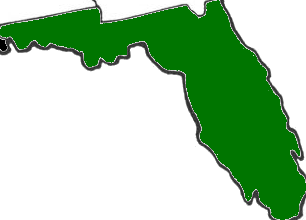
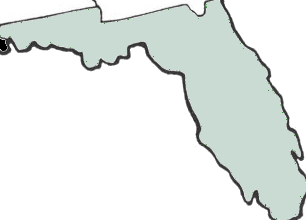
Added Georgia, lots of methods, and made coloring possible

diff --git a/mrisk/MRisk/src/main/java/GUI/StartScreen.java b/mrisk/MRisk/src/main/java/GUI/StartScreen.java
@@ -6,6 +6,7 @@
 package GUI;
 
 import Game.Game;
+import Game.Player;
 //import java.awt.Image;
 import javafx.scene.image.Image;
 import javafx.application.Application;
@@ -15,6 +16,8 @@ import javafx.event.EventHandler;
 import javafx.geometry.Pos;
 import javafx.scene.Scene;
 import javafx.scene.control.Button;
+import javafx.scene.effect.Light;
+import javafx.scene.effect.Lighting;
 import javafx.scene.image.ImageView;
 import javafx.scene.input.MouseEvent;
 import javafx.scene.layout.Background;
@@ -25,6 +28,7 @@ import javafx.scene.layout.BackgroundSize;
 import javafx.scene.layout.GridPane;
 import javafx.scene.layout.Pane;
 import javafx.scene.layout.StackPane;
+import javafx.scene.paint.Color;
 import javafx.stage.Stage;
 
 /**
@@ -43,7 +47,7 @@ public class StartScreen extends Application {
     BackgroundImage bg;
 
     public StartScreen() {
-
+        game = new Game();
     }
 
     public void begin() {
@@ -174,14 +178,38 @@ public class StartScreen extends Application {
         });
 
         pane.getChildren().add(menuBtn);
-        //ImageView img = new ImageView();
-        ImageView florida = new ImageView("/florida.png");
-        //Image florida = new Image("/florida.png", 32, 32, false, false);
+        Image fl = new Image("/florida.png");
+        //ImageView florida = new ImageView("/florida.png");
+        ImageView florida = new ImageView(fl);
         florida.setPickOnBounds(false);
         florida.setOnMouseClicked((MouseEvent e) -> {
+            Lighting lighting = new Lighting();
+            lighting.setDiffuseConstant(1.0);
+            lighting.setSpecularConstant(0.0);
+            lighting.setSpecularExponent(0.0);
+            lighting.setSurfaceScale(0.0);
+            lighting.setLight(new Light.Distant(45, 45, game.getCurrentPlayer().getColor()));
             System.out.println("clicked Florida!");
+            florida.setEffect(lighting);
         });
 
+        Image ge = new Image("/georgia.png");
+        ImageView georgia = new ImageView(ge);
+        georgia.setPickOnBounds(false);
+        georgia.setOnMouseClicked((MouseEvent e) -> {
+            Lighting lighting = new Lighting();
+            lighting.setDiffuseConstant(1.0);
+            lighting.setSpecularConstant(0.0);
+            lighting.setSpecularExponent(0.0);
+            lighting.setSurfaceScale(0.0);
+            lighting.setLight(new Light.Distant(45, 45, Color.PURPLE));
+            System.out.println("clicked Georgia!");
+            georgia.setEffect(lighting);
+        });
+
+        pane.getChildren().add(georgia);
+        georgia.setLayoutX(460d);
+        georgia.setLayoutY(289d);
         pane.getChildren().add(florida);
         florida.setLayoutX(408d);
         florida.setLayoutY(453d);

diff --git a/mrisk/MRisk/src/main/java/Game/Game.java b/mrisk/MRisk/src/main/java/Game/Game.java
@@ -6,7 +6,10 @@
 package Game;
 
 import GUI.StartScreen;
+import java.util.ArrayList;
 import java.util.HashMap;
+import java.util.List;
+import javafx.scene.paint.Color;
 
 /**
  *
@@ -19,7 +22,10 @@ public class Game {
     int players;
     Player p1;
     Player p2;
+    Player currentPlayer;
     int round;
+    private List<Country> countries;
+    private Country selectedCountry;
     
     public static void main(String[] args) {
         
@@ -28,11 +34,13 @@ public class Game {
     public Game() {
         //this.players = new HashMap<>();
         players = 2;
-        
-        p1 = new Player();
-        p2 = new Player();
+        p1 = new Player(Color.GREEN);
+        p2 = new Player(Color.PURPLE);
+        currentPlayer = p1;
         
         round = 1;
+        
+        initializeCountries();
     }
     
     public void addPlayer(String name) {
@@ -52,5 +60,34 @@ public class Game {
         if (round > 2) {
             round = 1;
         }
+    }
+    
+    public void advanceRound() {
+        
+    }
+    
+    public void initializeCountries() {
+        countries = new ArrayList<>();
+        countries.add(new Country("Florida", "/florida.png", 4, countries.size()));
+        countries.add(new Country("Georgia", "/georgia.png", 2, countries.size()));
+    }
+    
+    public List<Country> getCountries() {
+        return this.countries;
+    }
+    
+    public Country getCountry(int index) {
+        return this.countries.get(index);
+    }
+    
+    public void selectCountry(int index) {
+        Country oldCountry = this.selectedCountry;
+        oldCountry.deselect();
+        getCountry(index).select();
+        // UPDATE COLORS
+    }
+    
+    public Player getCurrentPlayer() {
+        return this.currentPlayer;
     }
 }

diff --git a/mrisk/MRisk/src/main/java/Game/Country.java b/mrisk/MRisk/src/main/java/Game/Country.java
@@ -19,10 +19,14 @@ public class Country {
     private Integer troops;
     public ImageView img;
     private String ImageURI;
+    private int index;
+    private boolean selected;
     
-    public Country(String name, String ImageURI, int value) {
+    public Country(String name, String ImageURI, int value, int index) {
         this.name = name;
         this.value = value;
+        this.index = index;
+        this.selected = false;
         //img = new ImageView(ImageURI);
     }
     
@@ -52,6 +56,20 @@ public class Country {
     
     public int getTroops() {
         return this.troops;
+    }
+    
+    public int getIndex() {
+        return this.index;
+    }
+    
+    public void select() {
+        this.selected = true;
+        //OTHER THINGS
+    }
+    
+    public void deselect() {
+        this.selected = false;
+        // Other things
     }
     
     

diff --git a/mrisk/MRisk/src/main/java/Game/Player.java b/mrisk/MRisk/src/main/java/Game/Player.java
@@ -22,6 +22,7 @@ public class Player {
         this.num = num;
         this.name = name;
         this.troopsToSet = 10;
+        this.color = Color.BLUE;
     }
     
     public Player(int num) {
@@ -33,6 +34,12 @@ public class Player {
     public Player() {
         this.name = "Player";
         this.troopsToSet = 10;
+    }
+    
+    public Player(Color color) {
+        this.name = "Player";
+        this.troopsToSet = 10;
+        this.color = color;
     }
     
     public int getNum() {
@@ -53,6 +60,10 @@ public class Player {
     
     public void removeOneTroop() {
         this.troopsToSet--;
+    }
+    
+    public Color getColor() {
+        return this.color;
     }
     
 }

diff --git a/mrisk/MRisk/src/main/java/GUI/CountryView.java b/mrisk/MRisk/src/main/java/GUI/CountryView.java
@@ -15,6 +15,7 @@ import javafx.scene.image.ImageView;
 public class CountryView {
     private Country country;
     public ImageView i;
+    //private 
     
     public CountryView(Country country) {
         this.country = country;

diff --git a/dokumentointi/tyoaikakirjanpito.md b/dokumentointi/tyoaikakirjanpito.md
@@ -4,3 +4,4 @@
 | 13.11.2018 | 2h | Projektin suunnittelu ja vaatimusmäärittelyä |
 | 17.11.2018| 3h | Projektin rakenne, JavaFX:n opettelua ja GUI:n rakentelua + kartan valinta |
 | 18.11.2018 | 3h | Testien vamistelua ja luokkien rakentelua |
+| 25.11.2018 | 3h | Osavaltioiden luominen: FLORIDA!!! + eventhandlerit ja gamesceneen siirtyminen |
